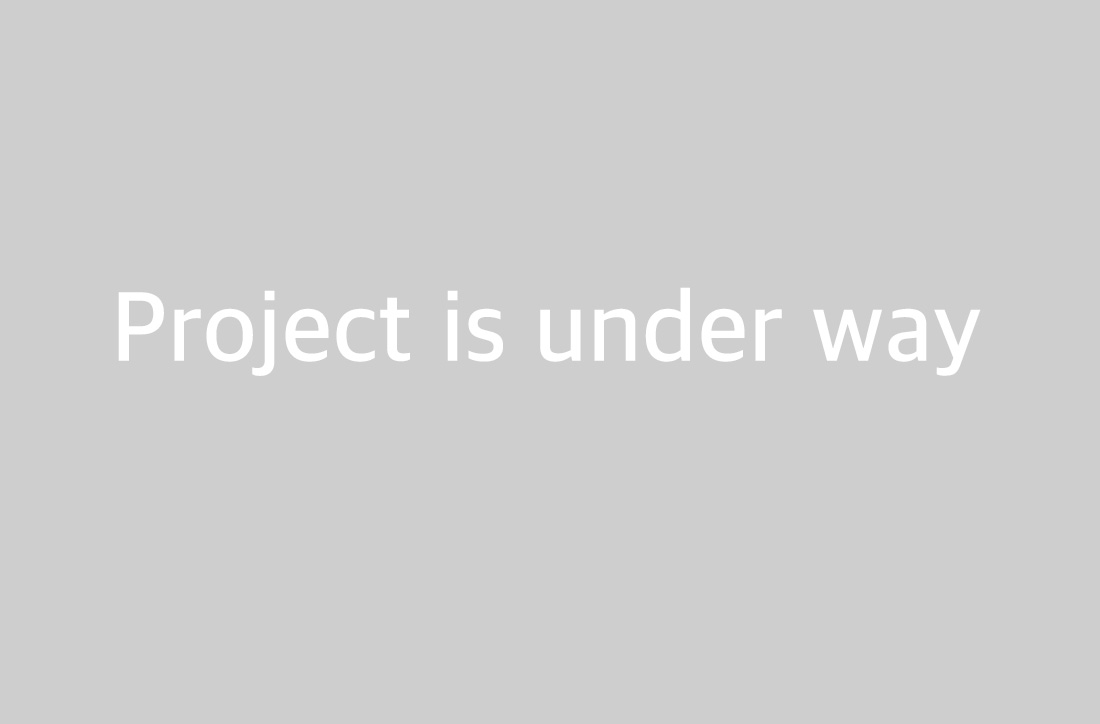
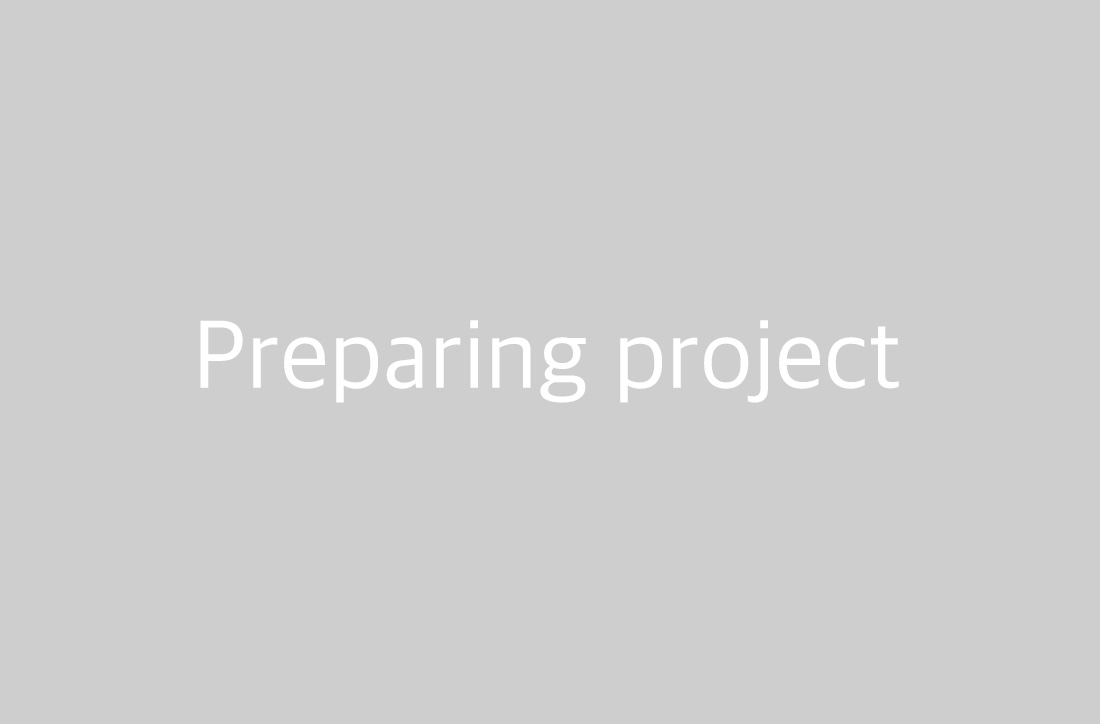
프로젝트 리스트에 알고리즘 공부페이지 추가

Changed region(s): [[0.0927, 0.395, 0.8964, 0.5773]]

diff --git a/index.html b/index.html
@@ -23,7 +23,7 @@
           <li>
             <a href="index.html" title="블로그 메인 페이지">PROJECT</a>
           </li>
-          <li><a href="https://github.com/sseom/learning" target="_blank" title="새창으로 깃허브 repositories learning로 이동합니다.">LEARNING</a></li>
+          <li><a href="https://github.com/sseom/learning" title="현재창에서 학습내용을 정리한 깃허브의 repositories learning 페이지로 이동합니다.">LEARNING</a></li>
           <li><a href="#" title="무슨 내용을 할까? 나에대해?">OTHER</a></li>
         </ul>
       </nav>
@@ -322,7 +322,104 @@
               </div>
             </article>
           </div>
-        </div><!-- 네번째 라인 끝 -->
+        </div>
+        <!-- 네번째 라인 끝 -->
+
+
+        <!-- 다섯번째 라인 -->
+        <div class="three_content cf">
+          <article class="portfolio_content">
+            <a class="proect_link" href="https://sseom.github.io/learning/77_algorithm/level-1/" target="_blank" title="알고리즘 문제풀이 새창으로 이동" ><img src="images/algorithm.jpg" alt="두투 리스트 완성 이미지"></a>
+            <h3>알고리즘 공부</h3>
+            <p>헬로월드 알고리즘 문제 실행페이지</p>
+            <button type="button" class="about_btn">About this portfolio..</button>
+            <div class="about_content three_left ">
+              <h4>사용언어</h4>
+              <ul class="lang_list cf">
+                <li>HTML5,</li>
+                <li>CSS,</li>
+                <li>JavaScript</li>
+              </ul>
+              <h4>진행방법</h4>
+              <ul>
+                <li>문제 제공 사이트 : 헬로월드 <span><a class="link" href="http://tryhelloworld.co.kr/challenges?language=javascript&level=1" target="_blank" title="헬로월드에서 제공하는 알고리즘 문제 레벨1부분 새창으로 이동">Lv.1 알고리즘 문제</a></span></li>
+                <li>일정 : 한주에 5문제 풀이.</li>
+                <li>
+                  문제 풀이 방식 :
+                  <ol class="ol_list">
+                    <li>손코딩 : 문제 해결의 방향 고민</li>
+                    <li>코딩 </li>
+                    <li>문제 해결후 다른 사람 코드 확인 </li>
+                    <li>다른사람 코드 분석</li>
+                    <li>정리해서 깃허브에 업로드</li>
+                  </ol>
+                </li>
+              </ul>
+              <h4 class="code_view_link"><a class="link" href="https://github.com/sseom/learning/blob/master/77_algorithm/01_level-1.md" target="_blank" title="문제풀이 소스가 있는 깃허브 페이지 새창으로 이동">문제풀이 소스보기</a></h4>
+              <button type="button" class="about_close_btn">CLOSE</button>
+            </div>
+          </article>
+
+          <article class="portfolio_content">
+            <a class="proect_link" href="javascript:void(0);">
+              <img src="images/ing.jpg" alt="AJAX - Friend 페이지 완성 이미지">
+            </a>
+            <h3>preparing</h3>
+            <p>...</p>
+            <button type="button" class="about_btn">About this portfolio..</button>
+            <div class="about_content three_center ">
+              <h4>사용언어 및 툴</h4>
+              <ul class="lang_list cf">
+                <li>...</li>
+              </ul>
+              <h4>사용기술</h4>
+              <ul>
+                <li>...</li>
+              </ul>
+              <h4 class="code_view_link"><a class="link" href="javascript:void(0);">작업 소스 보기</a></h4>
+              <button type="button" class="about_close_btn">CLOSE</button>
+            </div>
+          </article>
+
+          <article class="portfolio_content">
+            <a class="proect_link" href="javascript:void(0);">
+              <img src="images/ing.jpg" alt="이미지 캐러셀 메인 이미지">
+            </a>
+            <h3>preparing</h3>
+            <p>...</p>
+            <button type="button" class="about_btn">About this portfolio..</button>
+            <div class="about_content three_right ">
+              <h4>사용언어 및 툴</h4>
+              <ul class="lang_list cf">
+                <li>...</li>
+              </ul>
+              <h4>사용기술</h4>
+              <ul>
+                <li>...</li>
+              </ul>
+              <h4 class="code_view_link"><a class="link" href="javascript:void(0);">작업 소스 보기</a></h4>
+              <button type="button" class="about_close_btn">CLOSE</button>
+            </div>
+          </article>
+        </div>
+
+
+
+
+
+
+
+
+
+
+
+
+
+
+
+
+
+
         <!-- 코멘트 -->
         <p class="bottom_txt">My project is going to continue....</p>
       </section><!-- 콘텐츠 영역 끝-->

diff --git a/css/style.css b/css/style.css
@@ -289,7 +289,12 @@ button{
   left: -100%;
 }
 
-/*  */
+/* 다섯번째 라인 */
+.ol_list{
+  margin-top: 10px;
+}
+
+/* 하단 코멘트 */
 .bottom_txt{
   text-align: center;
   padding-top: 40px;
